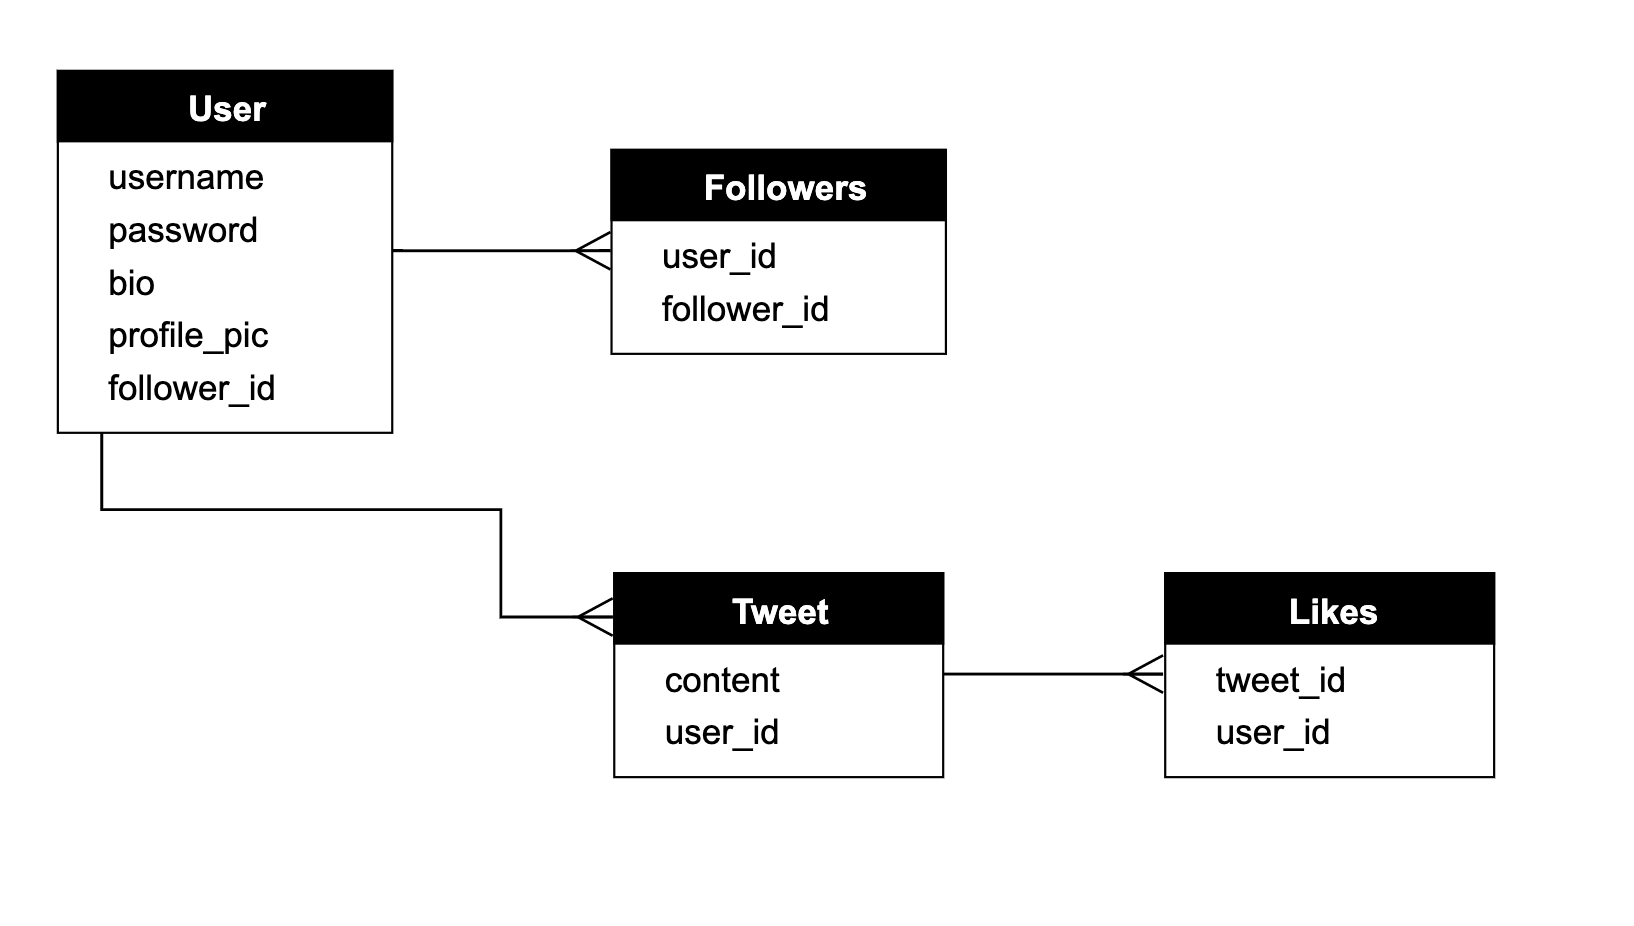
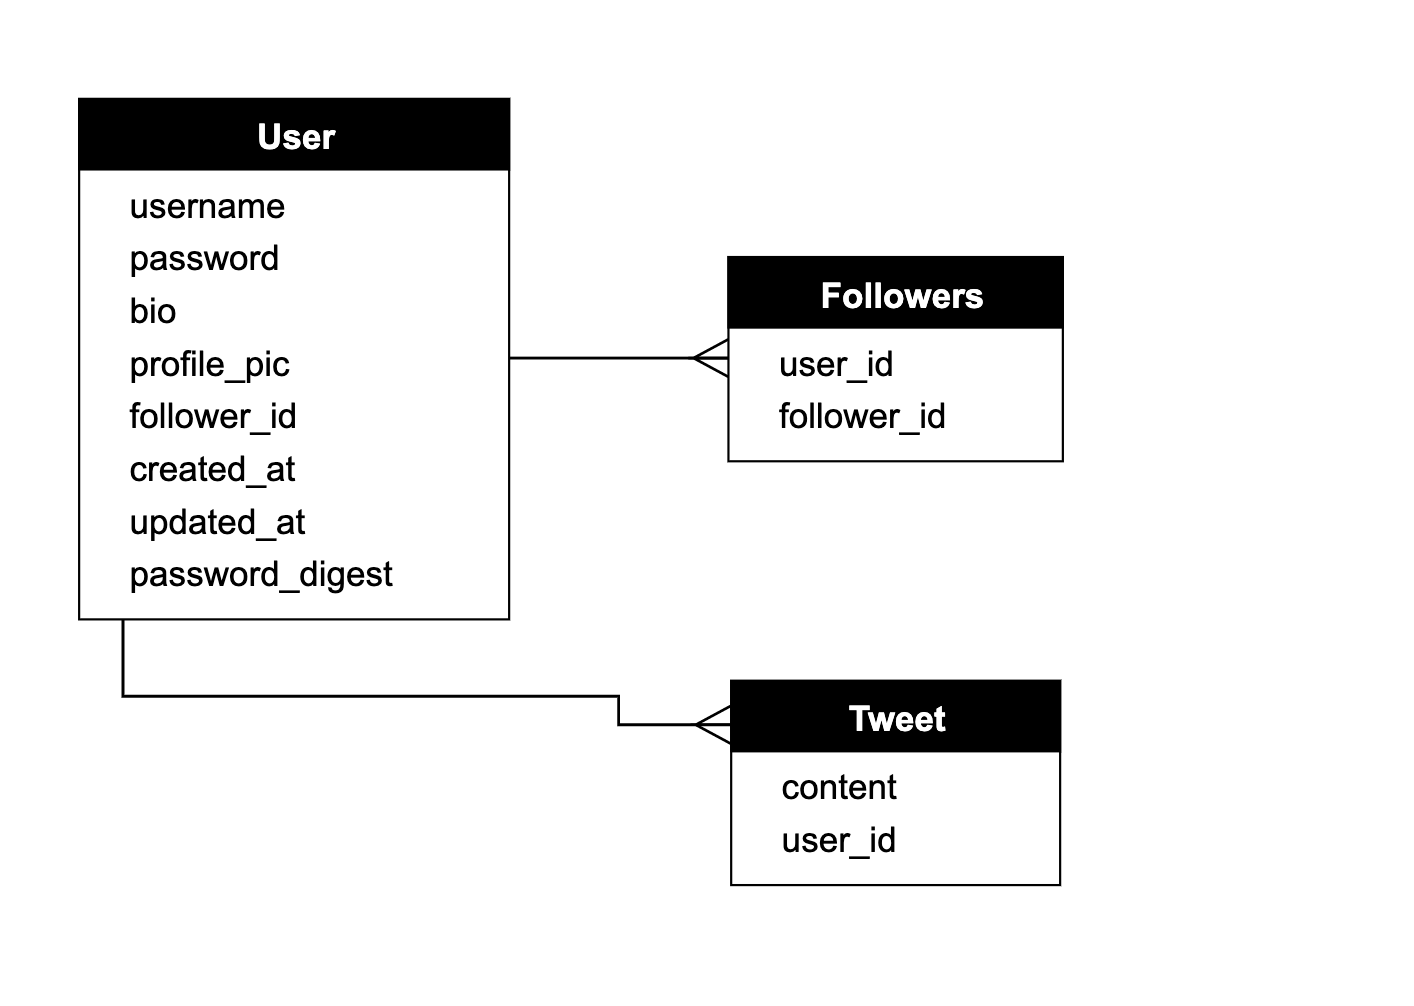
password validation implemented and passing

diff --git a/db/schema.rb b/db/schema.rb
@@ -10,7 +10,7 @@
 #
 # It's strongly recommended that you check this file into your version control system.
 
-ActiveRecord::Schema.define(version: 2021_04_25_004912) do
+ActiveRecord::Schema.define(version: 2021_04_25_074559) do
 
   # These are extensions that must be enabled in order to support this database
   enable_extension "plpgsql"
@@ -20,6 +20,7 @@ ActiveRecord::Schema.define(version: 2021_04_25_004912) do
     t.string "email"
     t.datetime "created_at", precision: 6, null: false
     t.datetime "updated_at", precision: 6, null: false
+    t.string "password_digest"
     t.index ["email"], name: "index_users_on_email", unique: true
   end
 

diff --git a/test/models/user_test.rb b/test/models/user_test.rb
@@ -2,7 +2,12 @@ require "test_helper"
 
 class UserTest < ActiveSupport::TestCase
   def setup
-    @user = User.new(name: "Bob Ross", email: "bobross@mail.com")
+    @user = User.new(
+      name: "Bob Ross", 
+      email: "bobross@mail.com",
+      password: "bobislife", 
+      password_confirmation: "bobislife"
+    )
   end
 
   test "should be valid" do

diff --git a/app/models/user.rb b/app/models/user.rb
@@ -5,4 +5,5 @@ class User < ApplicationRecord
   validates :email, presence: true, length: { maximum: 280 },
                     format: { with: VALID_EMAIL_REGEX },
                     uniqueness: true
+  has_secure_password
 end

diff --git a/db/migrate/20210425074559_add_password_digest_to_users.rb b/db/migrate/20210425074559_add_password_digest_to_users.rb
@@ -1,0 +1,5 @@
+class AddPasswordDigestToUsers < ActiveRecord::Migration[6.1]
+  def change
+    add_column :users, :password_digest, :string
+  end
+end

diff --git a/resources.md b/resources.md
@@ -5,23 +5,20 @@ Understand ActiveRecord and ActiveRecord::Base. Using this instead of psql execs
 - https://github.com/sinatra/sinatra-recipes/blob/master/databases/postgresql-activerecord.md
 - https://medium.com/@dmccoy/deploying-a-simple-sinatra-app-with-postgres-to-heroku-c4a883d3f19e
 - https://guides.rubyonrails.org/active_record_postgresql.html
+- https://stackoverflow.com/questions/2618887/rails-id-field-is-nil-when-calling-model-new
 
 Understand purpose and utilising Rakefiles
 
 - https://ruby.github.io/rake/doc/rakefile_rdoc.html
-
-- https://stackoverflow.com/questions/2618887/rails-id-field-is-nil-when-calling-model-new
 
 Setting default DB to psql instead of sqlite3
 
 - https://www.digitalocean.com/community/tutorials/how-to-set-up-ruby-on-rails-with-postgres
 - https://guides.rubyonrails.org/configuring.html#configuring-a-postgresql-database
 
-Undo previously executed scaffold
+Rails scaffolding
 
 - https://stackoverflow.com/questions/963420/undo-scaffolding-in-rails
-
-- https://github.com/rspec/rspec-rails
 
 Identifying how to kill a rails server exec
 
@@ -32,7 +29,15 @@ Learning full regex when validating email addresses
 - https://rubular.com/
 - https://mailtrap.io/blog/rails-email-validation/
 
+Learning rails testing
+
 - https://stackoverflow.com/questions/17936340/unresolved-specs-during-gemspecification-reset
+- https://github.com/rspec/rspec-rails
+- https://relishapp.com/rspec/rspec-expectations/docs/customized-message
+
+Learning rails secure password
+
+- https://medium.com/@tpstar/password-digest-column-in-user-migration-table-871ff9120a5
 
 Learning Bootstrap
 
